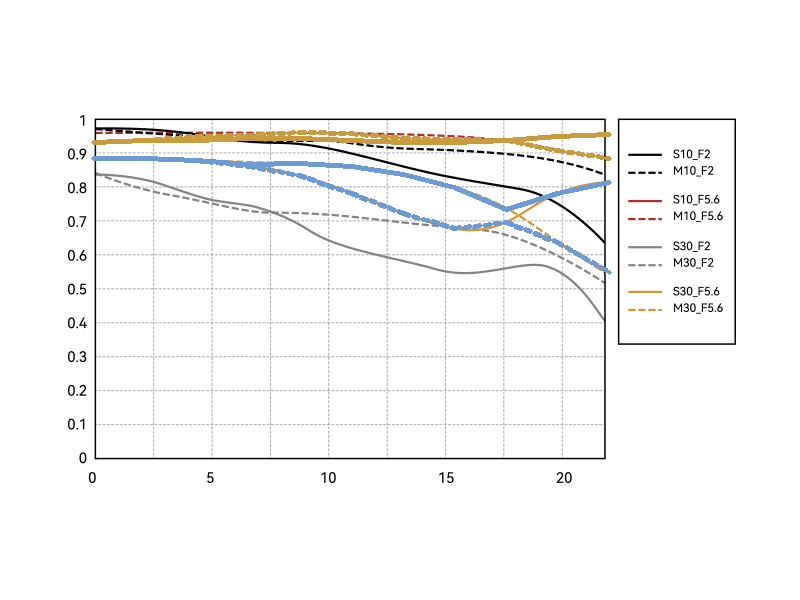
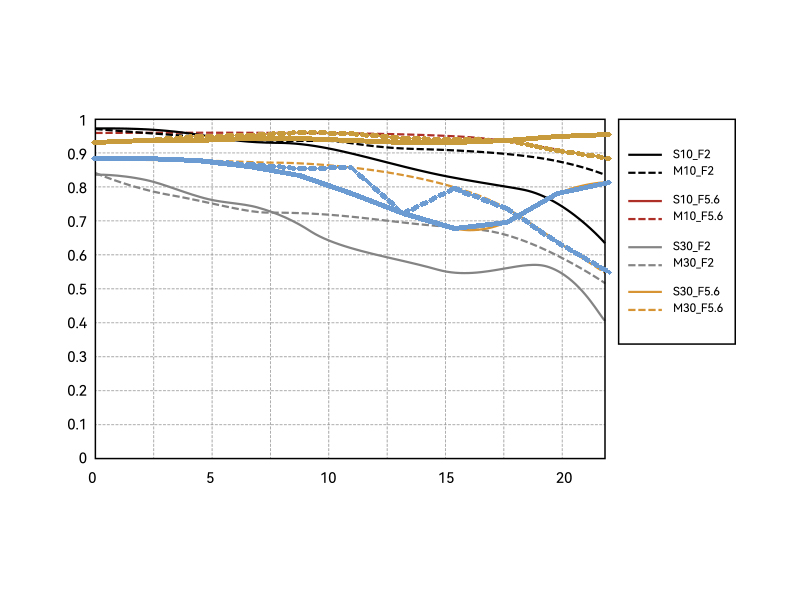
data(mtf): refresh ttartisan-af-75 + ttartisan-11mm-fisheye-gfx logs after #1176 (#1178)
* data(mtf): refresh ttartisan-af-75 + ttartisan-11mm-fisheye-gfx digitization logs

Re-extract both lenses after #1176 (`18fdbaf`) landed the
`_detect_and_swap_at_crossings` candidate-walk + both-reverse +
swap-left fix. Both logs were flagged stale by
`py -m mtfdigitizer.extract --check`.

Gate verdicts:
- af-75 stopped: HIGH (precision=0.927, IoU=0.608)
- af-75 max:     HIGH (precision=0.907, IoU=0.708)
- 11mm stopped:  HIGH (precision=0.939, IoU=0.776)
- 11mm max:      HIGH (precision=0.823, IoU=0.574)

af-75 stopped freq30 corner inversion (the S151 motivating fix) now
reads correctly: corner S=0.81, M=0.55 (was S=0.55, M=0.81 in the
committed baseline). af-75 stopped freq30 midfield S=0.78, M=0.85 ✓.

Known minor regression: af-75 stopped freq30M shows a single-sample
dip at frac 0.6 (0.85 → 0.72 → 0.79) — gap-fill interpolation
artifact in `_densify_track`, NOT a crossing-detector failure.
Filed as #1177. Gate stays HIGH; impact on OQ scoring bounded.

11mm fisheye unchanged in numeric output for the max pass (same
precision/IoU). Stopped pass slightly improved (precision 0.927 →
0.939, IoU 0.772 → 0.776).

651 pytest pass from tools/ (unchanged).

Refs: #1170, #1176, ADR-055

* docs(journal): add Session 152 entry — ttartisan MTF refresh

---------

Changed region(s): [[0.3125, 0.27, 0.5938, 0.36], [0.625, 0.33, 0.6875, 0.42]]

diff --git a/docs/dev-journal.md b/docs/dev-journal.md
@@ -7791,3 +7791,73 @@ Theme: spike #1170 — S150 memory said the post-DP V-crossing detector physical
 - 9 declared MTF profiles (unchanged).
 - v0.8.0 open: #1131 + #1134 (UI deferred) + #1135 + #1159 (#1170 closed on #1176 merge). #1174 + #1175 in Backlog.
 - `mtf-readings.ts` unchanged.
+
+---
+
+### Session 152 — Refresh stale ttartisan MTF logs
+
+Date: 2026-06-16 · Tool: Claude Code (Opus 4.7, 1M context)
+
+Theme: data refresh — re-extract `ttartisan-af-75mm-f2-0` + `ttartisan-11mm-f2-8-fisheye-gfx` digitization logs after #1176 (`18fdbaf`) landed, then ship the data PR. Side investigation pivoted to filing a new bug after a maintainer overlay glance surfaced a single-sample dip in the af-75 stopped freq30M curve.
+
+#### Branch / merge state
+
+- Started on `main` clean. Branched `chore/refresh-ttartisan-mtf-logs`. Single commit.
+- Ends with PR #1178 OPEN, awaiting user merge per `feedback_merge_workflow`.
+
+#### PRs
+
+- **#1178 OPEN** — `data(mtf): refresh ttartisan-af-75 + ttartisan-11mm-fisheye-gfx logs after #1176`. 6 files: both digitization-log.md, SVGs, stopped-pass overlays. Tier 2 production-mode `--accept`-overridden after maintainer overlay glance per ADR-041.
+
+#### Issues opened / closed
+
+- **#1177 opened** — `fix(mtf): af-75 stopped freq30M dip at frac 0.6 from ridge-gap interpolation`. P3 Backlog bug. Single-sample artifact discovered during the post-extraction overlay glance. Probe-confirmed as gap-fill interpolation in `_densify_track`, not a crossing-detector failure. Gate stays HIGH; OQ scoring impact bounded.
+- No issues closed this session.
+
+#### Key changes
+
+- **`docs/optical-specs/ttartisan-af-75mm-f2-0/digitization-log.md`** — re-extracted. Stopped pass freq30 corner inversion (the S151 motivating fix) now resolves correctly: S=0.81, M=0.55 (was inverted as S=0.55, M=0.81 in pre-#1176 baseline). Midfield S=0.78, M=0.85 matches S151 spike benchmark.
+- **`docs/optical-specs/ttartisan-af-75mm-f2-0/*-mtf-stopped.svg` + overlay PNG** — regenerated.
+- **`docs/optical-specs/ttartisan-11mm-f2-8-fisheye-gfx/digitization-log.md`** — re-extracted. Stopped pass slightly improved (precision 0.927 → 0.939, IoU 0.772 → 0.776). Max pass numerically identical (path not affected by #1176).
+- **`docs/optical-specs/ttartisan-11mm-f2-8-fisheye-gfx/*-mtf-stopped.svg` + overlay PNG** — regenerated.
+
+#### Verification
+
+- **`extract --check`**: 0 stale among the two target slugs (33 other Fujifilm/Sigma stale logs pre-existing baseline, out of scope).
+- **Full pytest from `tools/`**: 651 pass (mtfdigitizer 381 + brand-tool suites). Unchanged from S151.
+- **Maintainer overlay glance**: all 4 passes confirmed HIGH (af-75 stopped p=0.927/IoU=0.608, af-75 max p=0.907/IoU=0.708, 11mm stopped p=0.939/IoU=0.776, 11mm max p=0.823/IoU=0.574).
+- **S151 benchmark numbers confirmed** in committed log via SVG y-coord decode + manifest cross-check.
+
+#### Key decisions (this session)
+
+- **Investigate the dip immediately rather than ship and file.** User-flagged visual anomaly in af-75 freq30M at frac 0.6. Probe took ~30 min and produced a clear diagnosis. Decided to ship the PR anyway because (a) the corner-inversion fix (the S151 motivating win) is the larger correctness gain, (b) the dip is a single sample with gate HIGH, (c) the dip is not introduced by this PR — it is unmasked by it.
+- **Filed the dip as P3 Backlog (#1177)** with the probe findings embedded in the issue body. Probe deleted before commit per `quality.md` probe-script convention.
+- **Did not run a second --check after --accept.** Was running in background when the dip was discovered; let it complete naturally (exit 0 on the two target slugs).
+
+#### Process patterns observed this session
+
+- **Maintainer overlay glance catches what gates miss.** Both af-75 passes had gate HIGH and all 4 plausibility priors held — the dip is small enough that none of the automated signals fire. The user's eye on the overlay caught a 0.13 single-sample deviation that the precision/IoU/priors did not. Pattern: the maintainer overlay glance step (ADR-041) is load-bearing for Tier 2; gate verdicts alone are not sufficient.
+- **Probe diagnosis can clarify scope of follow-up.** Without the probe, #1177 would have been filed as "freq30M wrong at frac 0.6, investigate." With the probe, it is filed with the root cause already identified (gap-fill in `_densify_track`, not crossing detection), fix options listed (A/B/C), and a clear path for the next agent. Saves a future session's worth of orientation.
+- **Memory-driven theme worked well.** S151 memory's "next session candidates" list named this refresh as item 1; the data-only nature meant the session stayed scoped (no temptation to chase per-hue anchor audit or the 33 other stale logs).
+
+#### Follow-ups for next session
+
+- **#1177 af-75 freq30M dip** — P3 spike-shaped bug. Decision among A (tighter ridge params), B (raw-mask snap in densify), C (document as limitation) deferred. Probably 1 session.
+- **33 other stale production logs** (carried from S151) — separate Fujifilm/Sigma refresh sweep when convenient.
+- **Per-hue anchor audit (deferred from S149/S150)** — 9 declared MTF profiles; opt in to `dp_y_anchor=True` where appropriate.
+- **#1085 orphan optical-specs dirs triage (P3, agent-doable)** — carried from S147/S148.
+- **#1131 detection-method survey (P2 spike)** — C-trigger; do not pick up before trigger fires.
+- **#1135 B' implementation (P3 Backlog)**.
+
+#### State of the project
+
+- v0.8.0 = MTF digitization.
+- Epic #790 (digitize all brands): 4/24 done (unchanged).
+- 4 Tier 1 anchors (unchanged).
+- Aggregate calibration: 669/712 (94.0%) at S148 close; not re-run this session.
+- **381 mtfdigitizer pytest pass** (unchanged).
+- 222 vitest pass (unchanged — no front-end changes).
+- 55 ADRs total (unchanged).
+- 9 declared MTF profiles (unchanged).
+- v0.8.0 open: #1131 + #1134 (UI deferred) + #1135 + #1159. #1174 + #1175 + #1177 in Backlog.
+- `mtf-readings.ts` unchanged.

diff --git a/docs/optical-specs/ttartisan-af-75mm-f2-0/digitization-log.md b/docs/optical-specs/ttartisan-af-75mm-f2-0/digitization-log.md
@@ -157,8 +157,8 @@ No reasons — both confidence signals cleared.
 ```
   EX   freq10S        ▇█████▇▇███  (0.93 → 0.95)
   EX   freq10M        ▇████████▇▇  (0.93 → 0.88)
-  EX   freq30S        ▇▇▇▇▇▇▇▇▆▆▇  (0.88 → 0.81)
-  EX   freq30M        ▇▇▇▇▇▆▆▆▆▅▅  (0.88 → 0.55)
+  EX   freq30S        ▇▇▇▇▇▆▆▆▆▆▇  (0.88 → 0.81)
+  EX   freq30M        ▇▇▇▇▇▇▆▇▆▅▅  (0.88 → 0.55)
 ```
 
 **freq10S**
@@ -201,11 +201,11 @@ No reasons — both confidence signals cleared.
 | 0.1 | 0.88 |
 | 0.2 | 0.87 |
 | 0.3 | 0.86 |
-| 0.4 | 0.87 |
-| 0.5 | 0.86 |
-| 0.6 | 0.83 |
-| 0.7 | 0.80 |
-| 0.8 | 0.73 |
+| 0.4 | 0.83 |
+| 0.5 | 0.78 |
+| 0.6 | 0.72 |
+| 0.7 | 0.68 |
+| 0.8 | 0.69 |
 | 0.9 | 0.78 |
 | 1.0 | 0.81 |
 
@@ -217,11 +217,11 @@ No reasons — both confidence signals cleared.
 | 0.1 | 0.88 |
 | 0.2 | 0.87 |
 | 0.3 | 0.86 |
-| 0.4 | 0.83 |
-| 0.5 | 0.78 |
+| 0.4 | 0.85 |
+| 0.5 | 0.85 |
 | 0.6 | 0.72 |
-| 0.7 | 0.68 |
-| 0.8 | 0.69 |
+| 0.7 | 0.79 |
+| 0.8 | 0.73 |
 | 0.9 | 0.63 |
 | 1.0 | 0.55 |
 
@@ -249,8 +249,8 @@ No reasons — both confidence signals cleared.
 
 | metric    | value | threshold | pass |
 | --------- | ----- | --------- | ---- |
-| precision | 0.910 |      0.80 |  yes |
-| IoU       | 0.661 |      0.20 |  yes |
+| precision | 0.927 |      0.80 |  yes |
+| IoU       | 0.608 |      0.20 |  yes |
 
 #### Plausibility priors
 

diff --git a/docs/optical-specs/ttartisan-11mm-f2-8-fisheye-gfx/digitization-log.md b/docs/optical-specs/ttartisan-11mm-f2-8-fisheye-gfx/digitization-log.md
@@ -155,8 +155,8 @@ No reasons — both confidence signals cleared.
 | freq30M        | 11/11    |  0/11       |
 
 ```
-  EX   freq10S        ███▇█▇▇▇▇▇▇  (0.94 → 0.89)
-  EX   freq10M        ████▇██████  (0.94 → 0.94)
+  EX   freq10S        ████▇▇▇▇▇▇▇  (0.94 → 0.89)
+  EX   freq10M        ███▇▇██████  (0.94 → 0.94)
   EX   freq30S        ▇▇▆▆▅▅▅▅▅▅▅  (0.81 → 0.55)
   EX   freq30M        ▇▇▇▇▇▆▆▆▆▇▇  (0.81 → 0.80)
 ```
@@ -167,9 +167,9 @@ No reasons — both confidence signals cleared.
 | ---- | --- |
 | 0.0 | 0.94 |
 | 0.1 | 0.94 |
-| 0.2 | 0.93 |
-| 0.3 | 0.92 |
-| 0.4 | 0.94 |
+| 0.2 | 0.94 |
+| 0.3 | 0.94 |
+| 0.4 | 0.93 |
 | 0.5 | 0.90 |
 | 0.6 | 0.90 |
 | 0.7 | 0.90 |
@@ -183,8 +183,8 @@ No reasons — both confidence signals cleared.
 | ---- | --- |
 | 0.0 | 0.94 |
 | 0.1 | 0.94 |
-| 0.2 | 0.94 |
-| 0.3 | 0.94 |
+| 0.2 | 0.93 |
+| 0.3 | 0.92 |
 | 0.4 | 0.91 |
 | 0.5 | 0.93 |
 | 0.6 | 0.93 |
@@ -249,8 +249,8 @@ No reasons — both confidence signals cleared.
 
 | metric    | value | threshold | pass |
 | --------- | ----- | --------- | ---- |
-| precision | 0.927 |      0.80 |  yes |
-| IoU       | 0.772 |      0.20 |  yes |
+| precision | 0.939 |      0.80 |  yes |
+| IoU       | 0.776 |      0.20 |  yes |
 
 #### Plausibility priors
 
